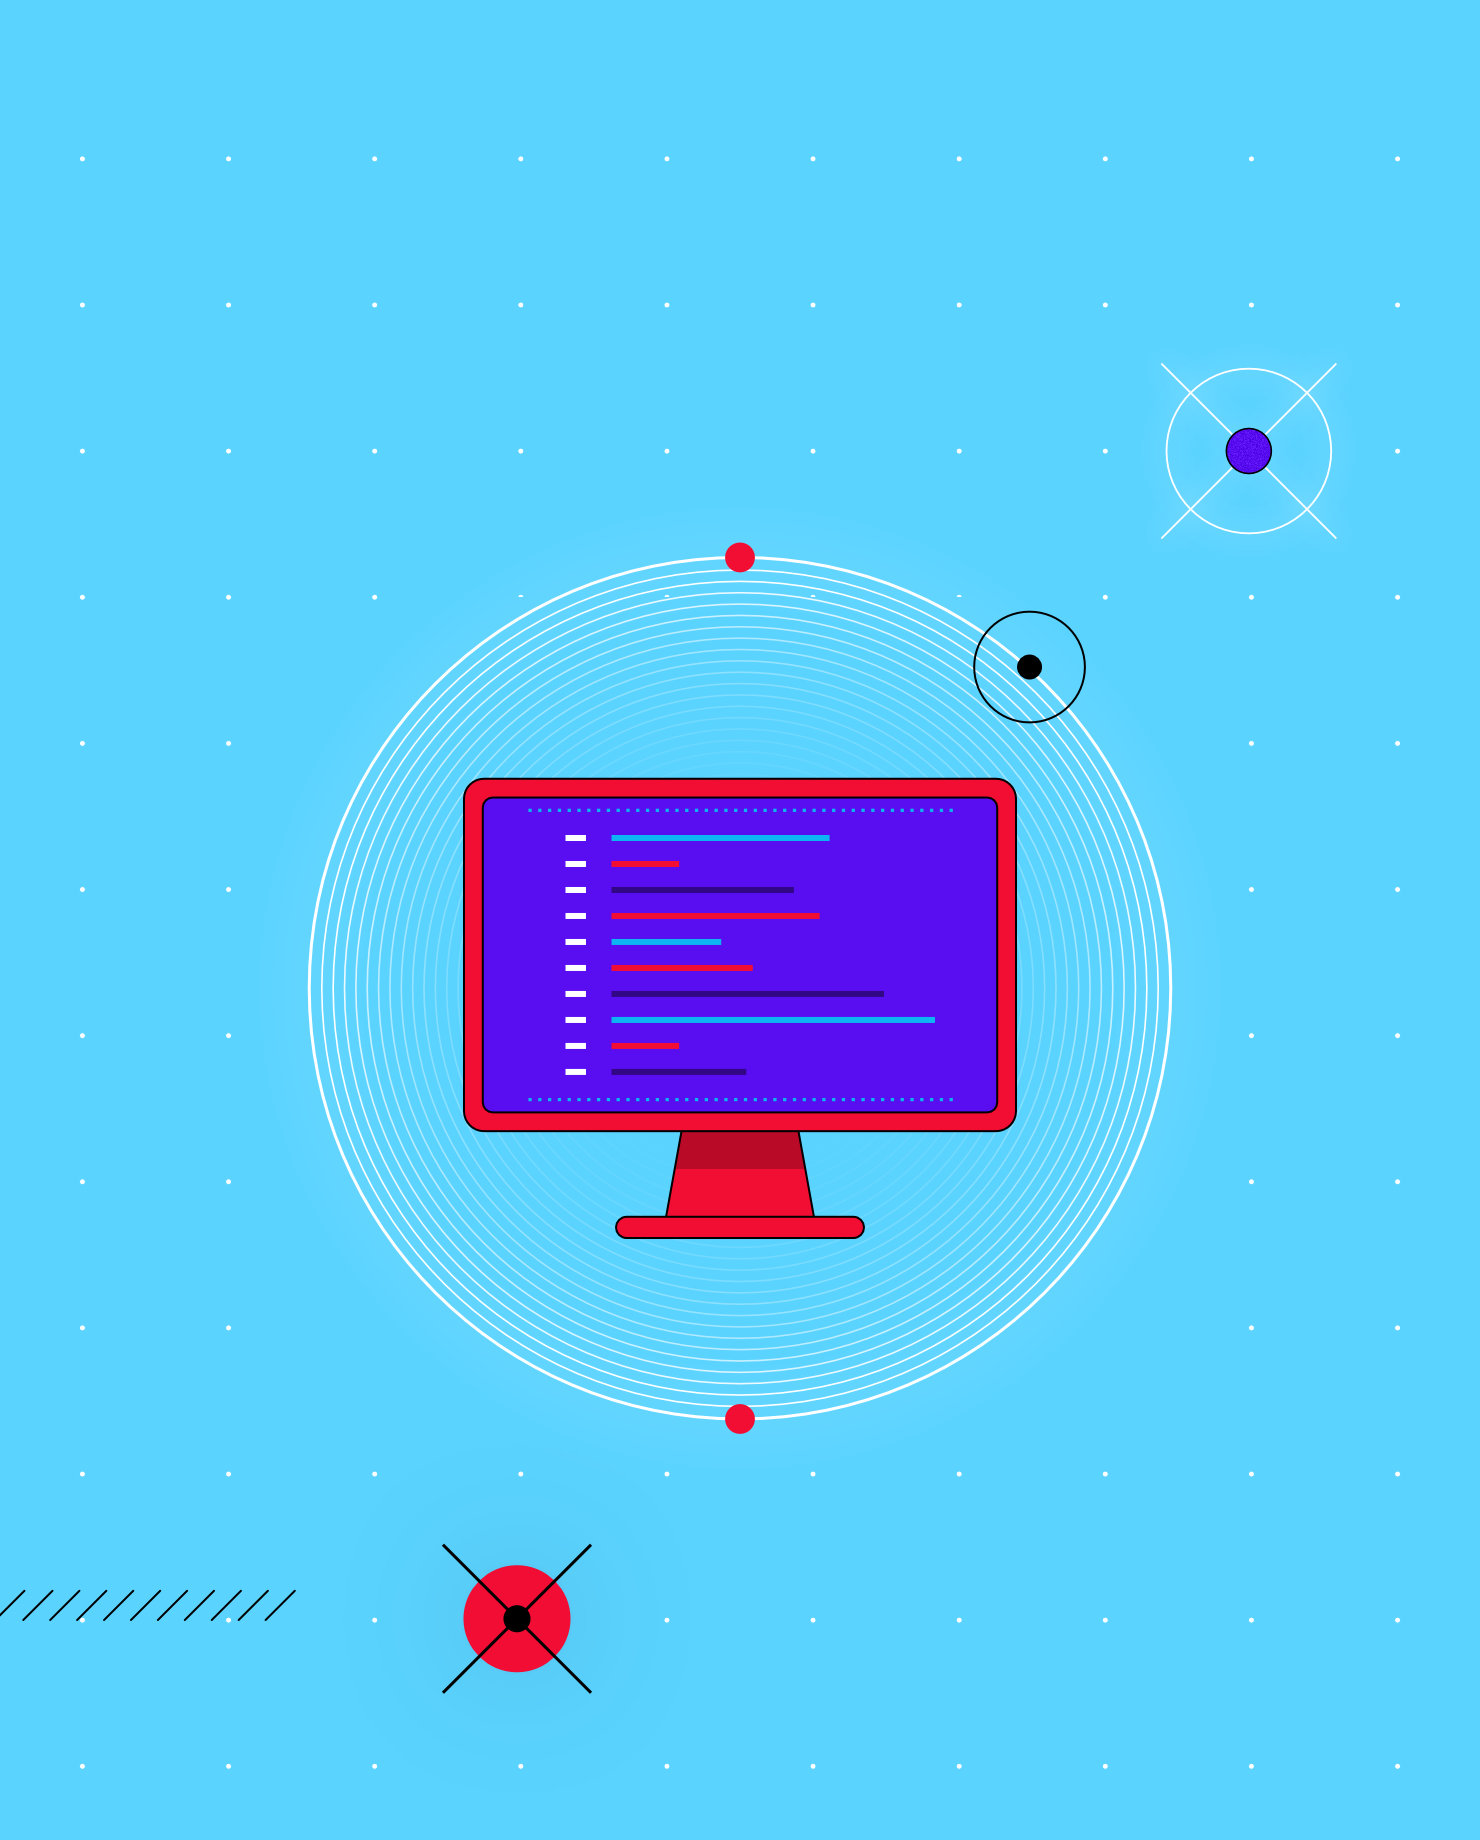
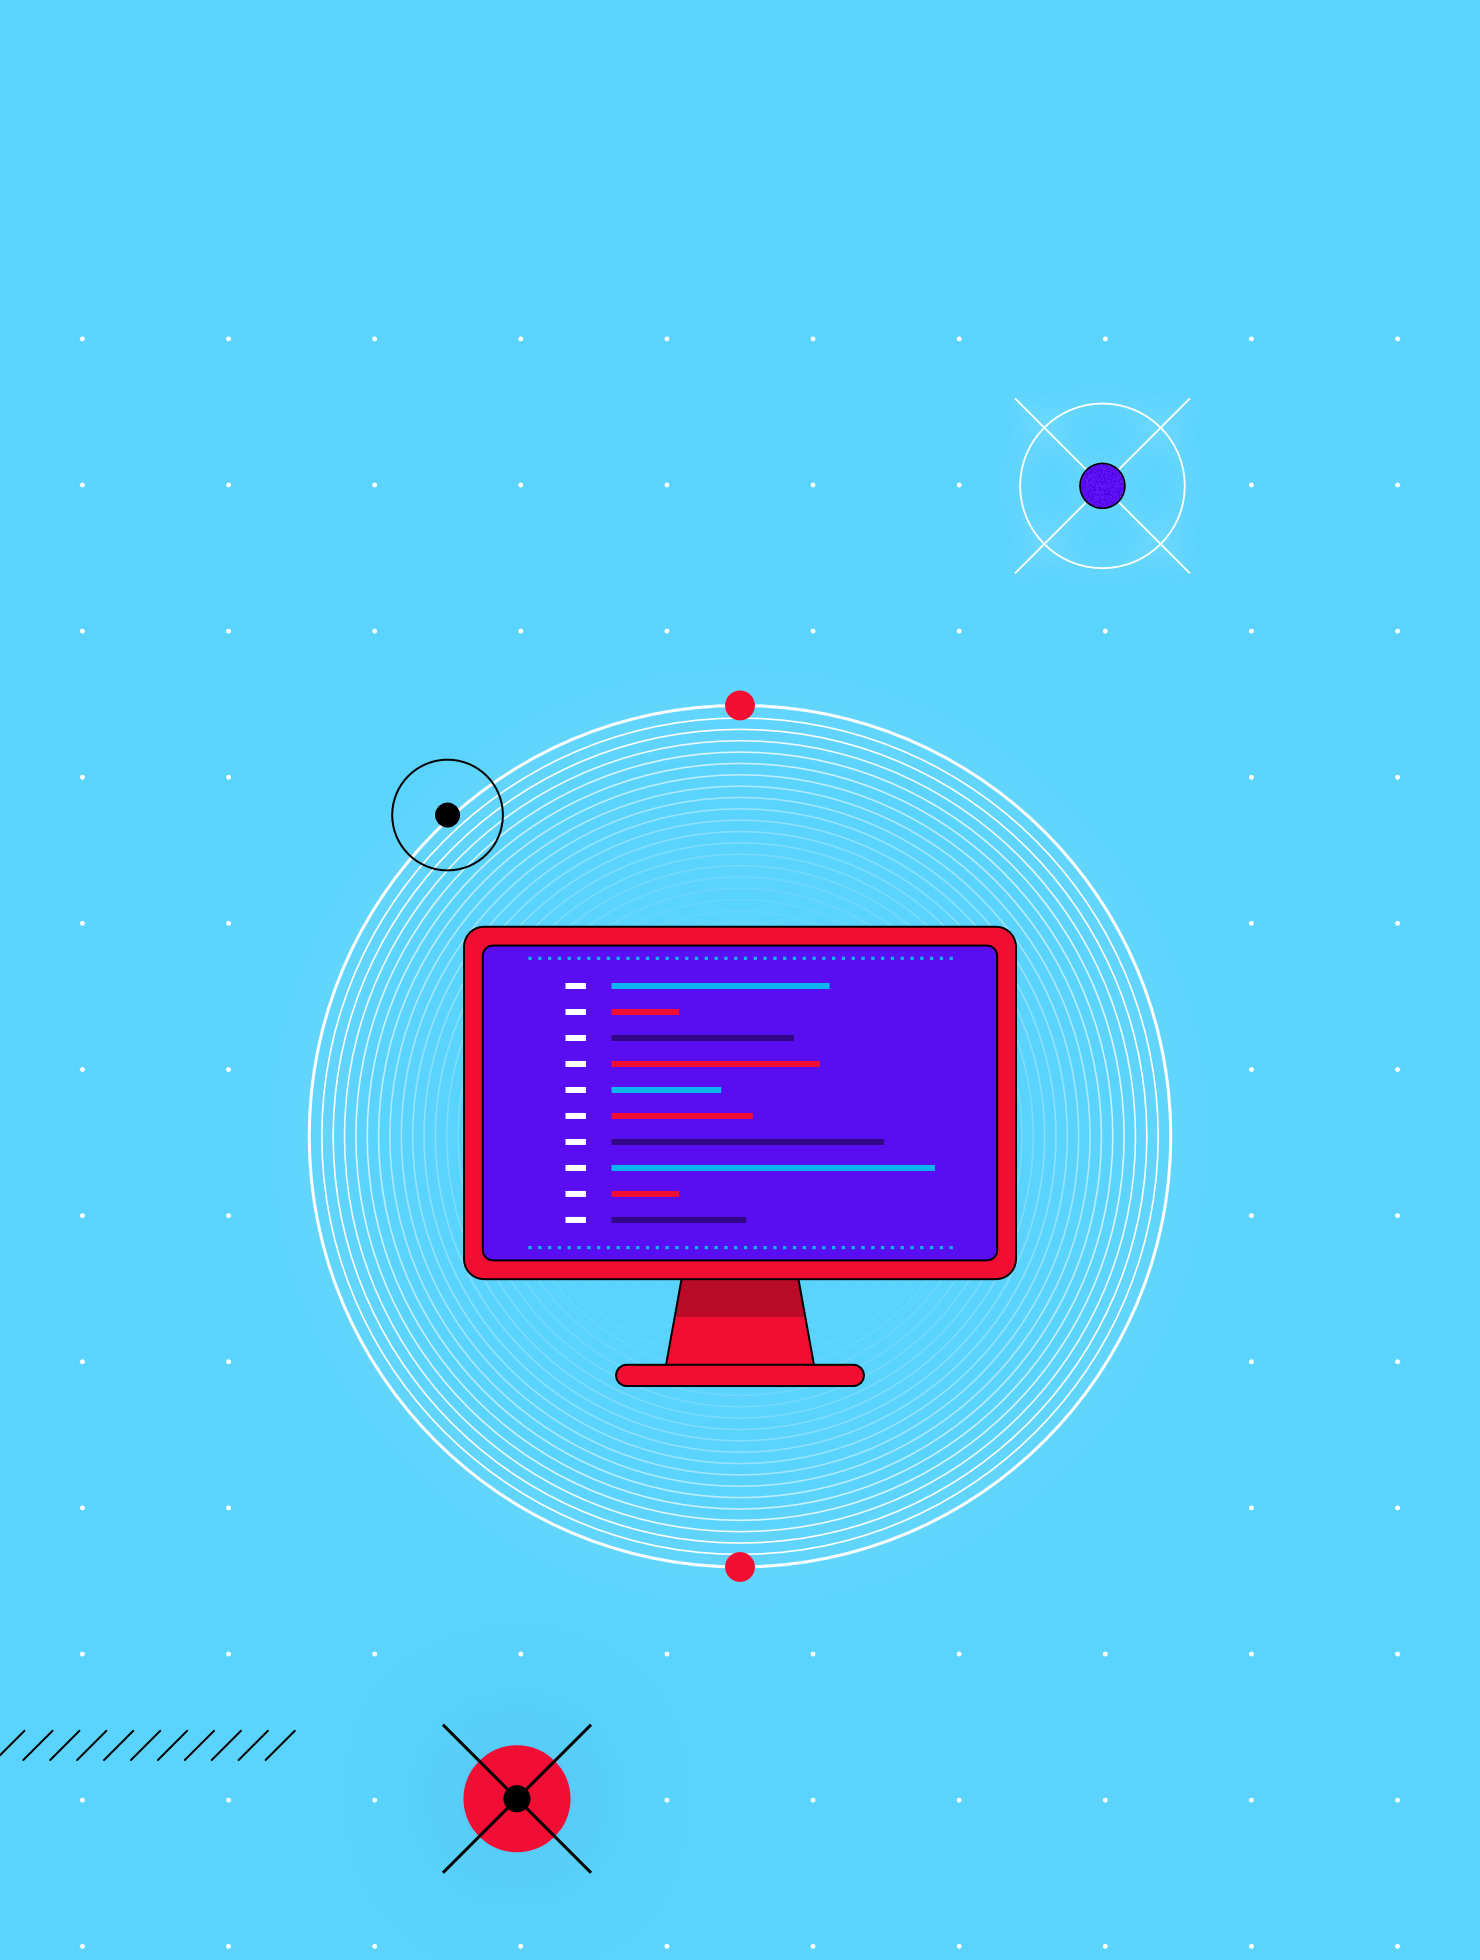
mobile covers

diff --git a/styles/section-project-indv.css b/styles/section-project-indv.css
@@ -237,7 +237,7 @@ h2
     background-position: center bottom;
     background-size: 470px;
     background-repeat: no-repeat;
-    height: 40rem;
+    height: 39rem;
   }
 
   .binmatter
